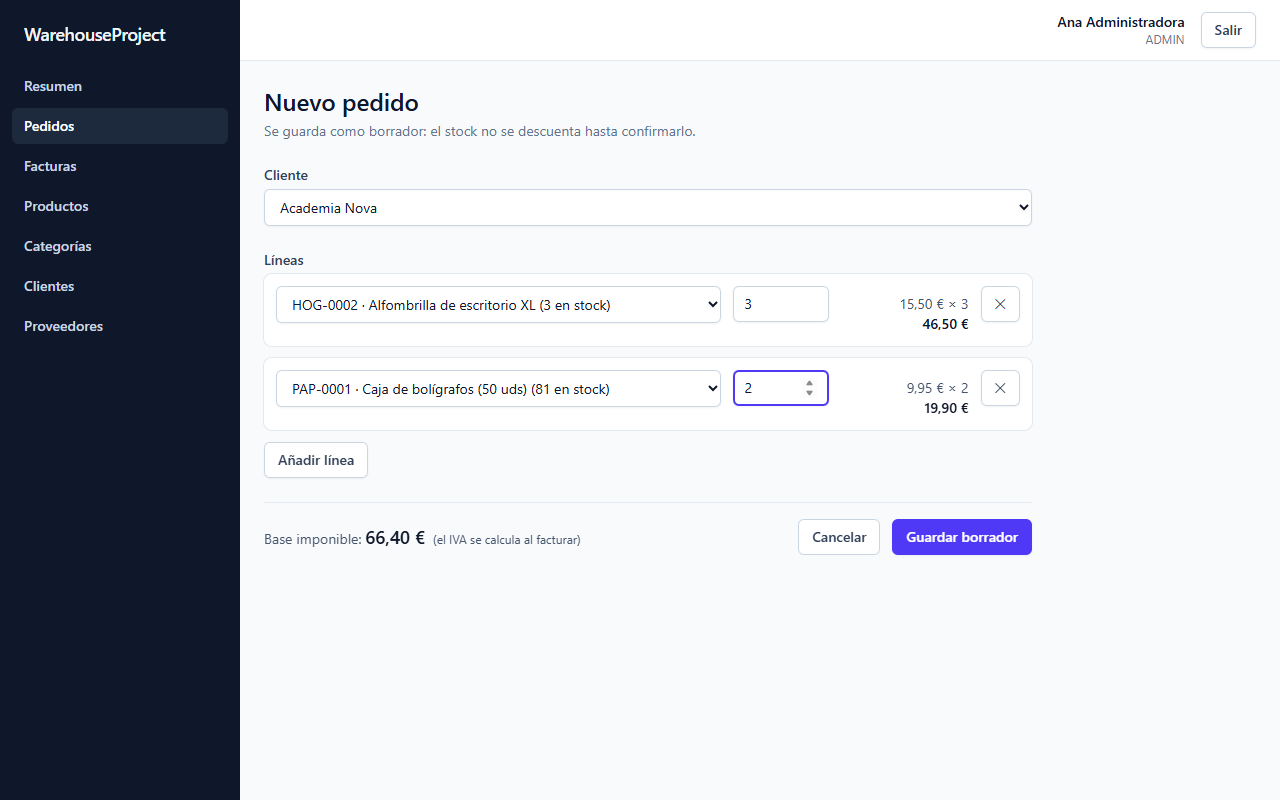
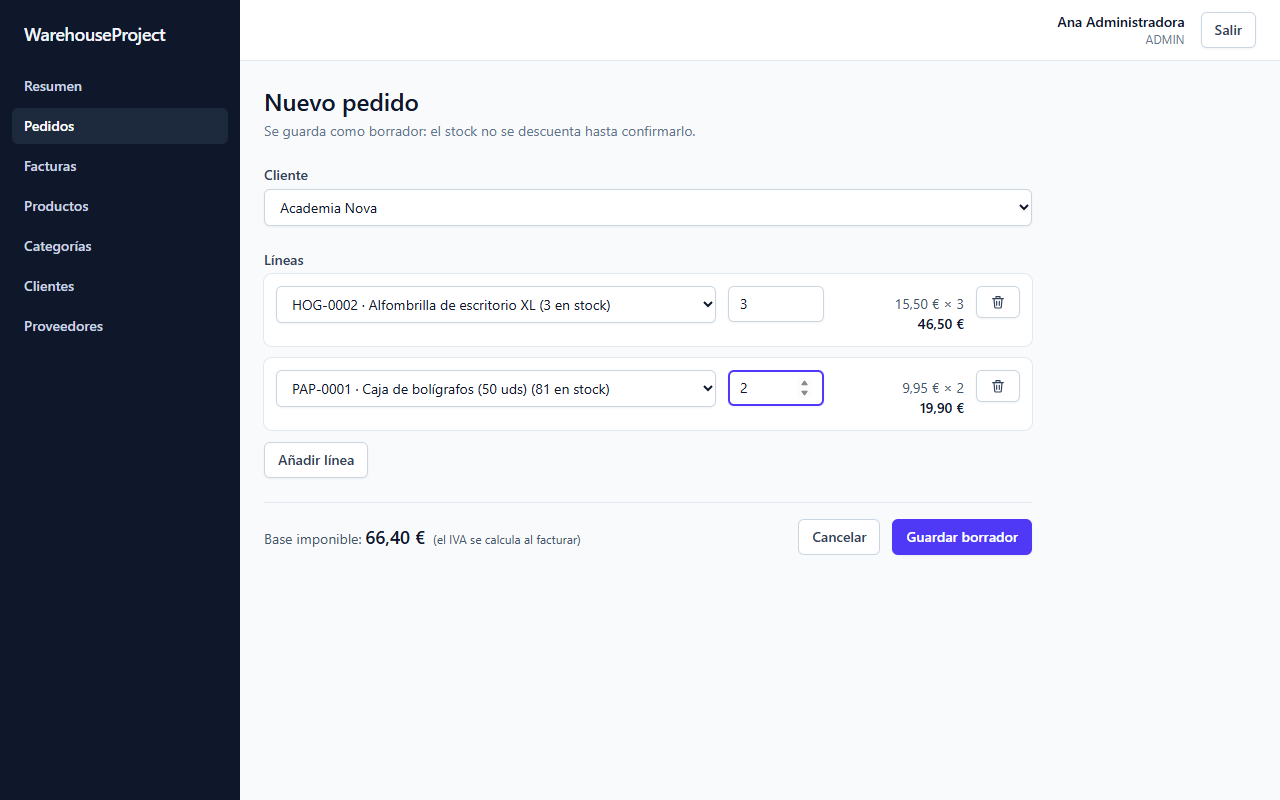
docs: capturas actualizadas y dos en el móvil
Las anteriores eran de antes de los cambios de diseño. Añado el resumen
y los pedidos a 390 px para que se vea cómo se adaptan las tablas.

diff --git a/README.md b/README.md
@@ -37,6 +37,13 @@ base de datos relacional, tests de integración, Docker y CI.
 | ![Nuevo pedido](docs/capturas/05-nuevo-pedido.png) | ![Factura](docs/capturas/08-factura.png) |
 | ![Productos](docs/capturas/06-productos.png) | ![Movimientos de stock](docs/capturas/07-stock.png) |
 
+En el móvil, las columnas secundarias se ocultan y lo esencial pasa debajo del dato principal:
+
+<p>
+  <img src="docs/capturas/09-movil-resumen.png" alt="Resumen en el móvil" width="260">
+  <img src="docs/capturas/10-movil-pedidos.png" alt="Pedidos en el móvil" width="260">
+</p>
+
 ## Stack
 
 | Capa          | Tecnología                                                          |

diff --git a/README.en.md b/README.en.md
@@ -38,6 +38,13 @@ relational database, integration tests, Docker, and CI.
 | ![New order](docs/capturas/05-nuevo-pedido.png) | ![Invoice](docs/capturas/08-factura.png) |
 | ![Products](docs/capturas/06-productos.png) | ![Stock movements](docs/capturas/07-stock.png) |
 
+On mobile, secondary columns are hidden and the essentials move under the main value:
+
+<p>
+  <img src="docs/capturas/09-movil-resumen.png" alt="Dashboard on mobile" width="260">
+  <img src="docs/capturas/10-movil-pedidos.png" alt="Orders on mobile" width="260">
+</p>
+
 (The UI is in Spanish, the language of the business domain.)
 
 ## Stack
